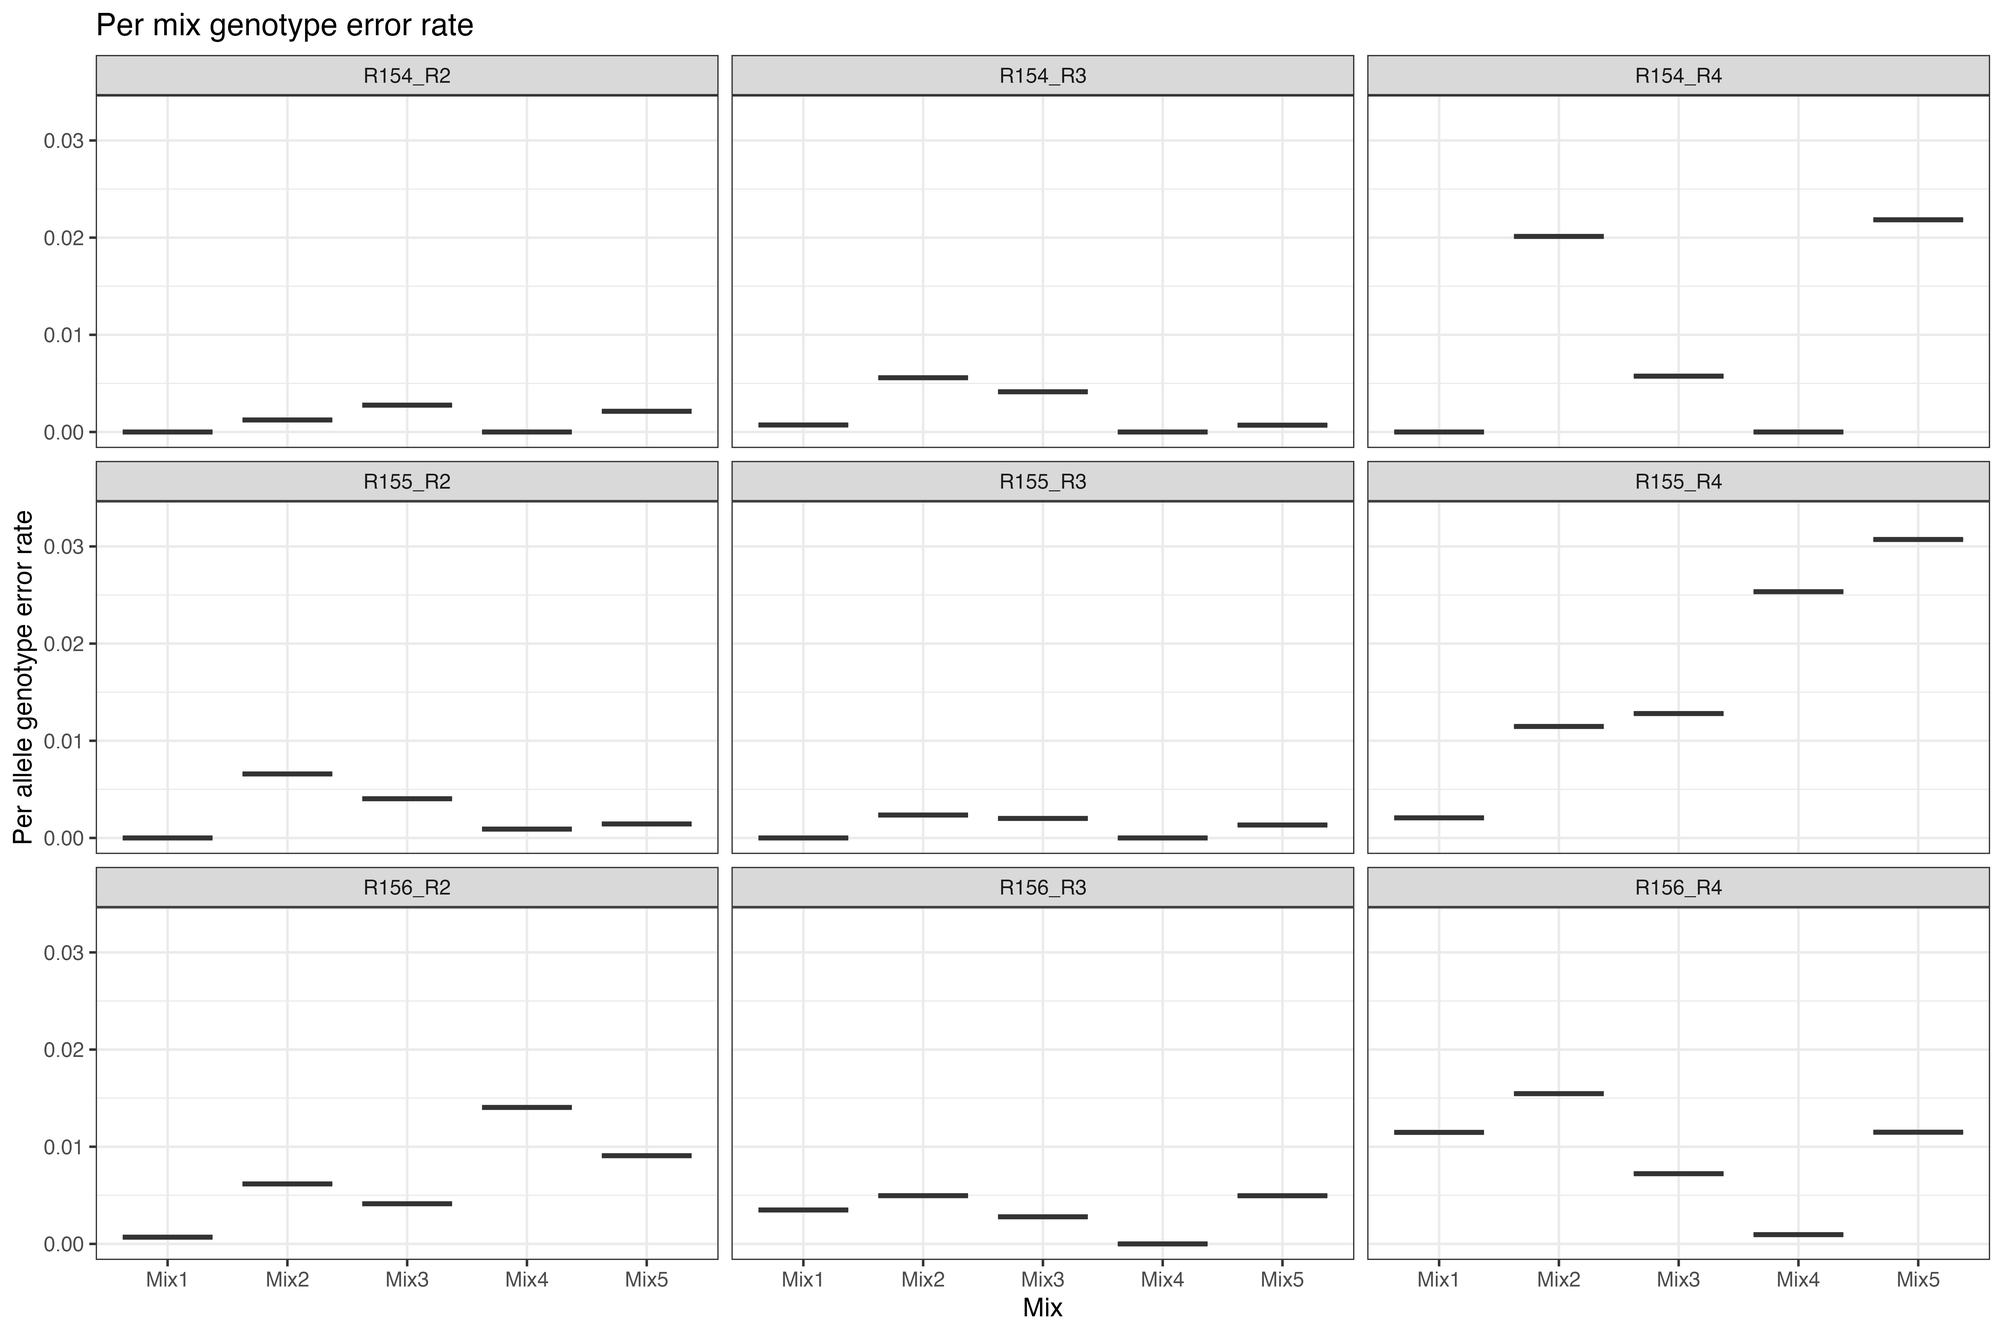
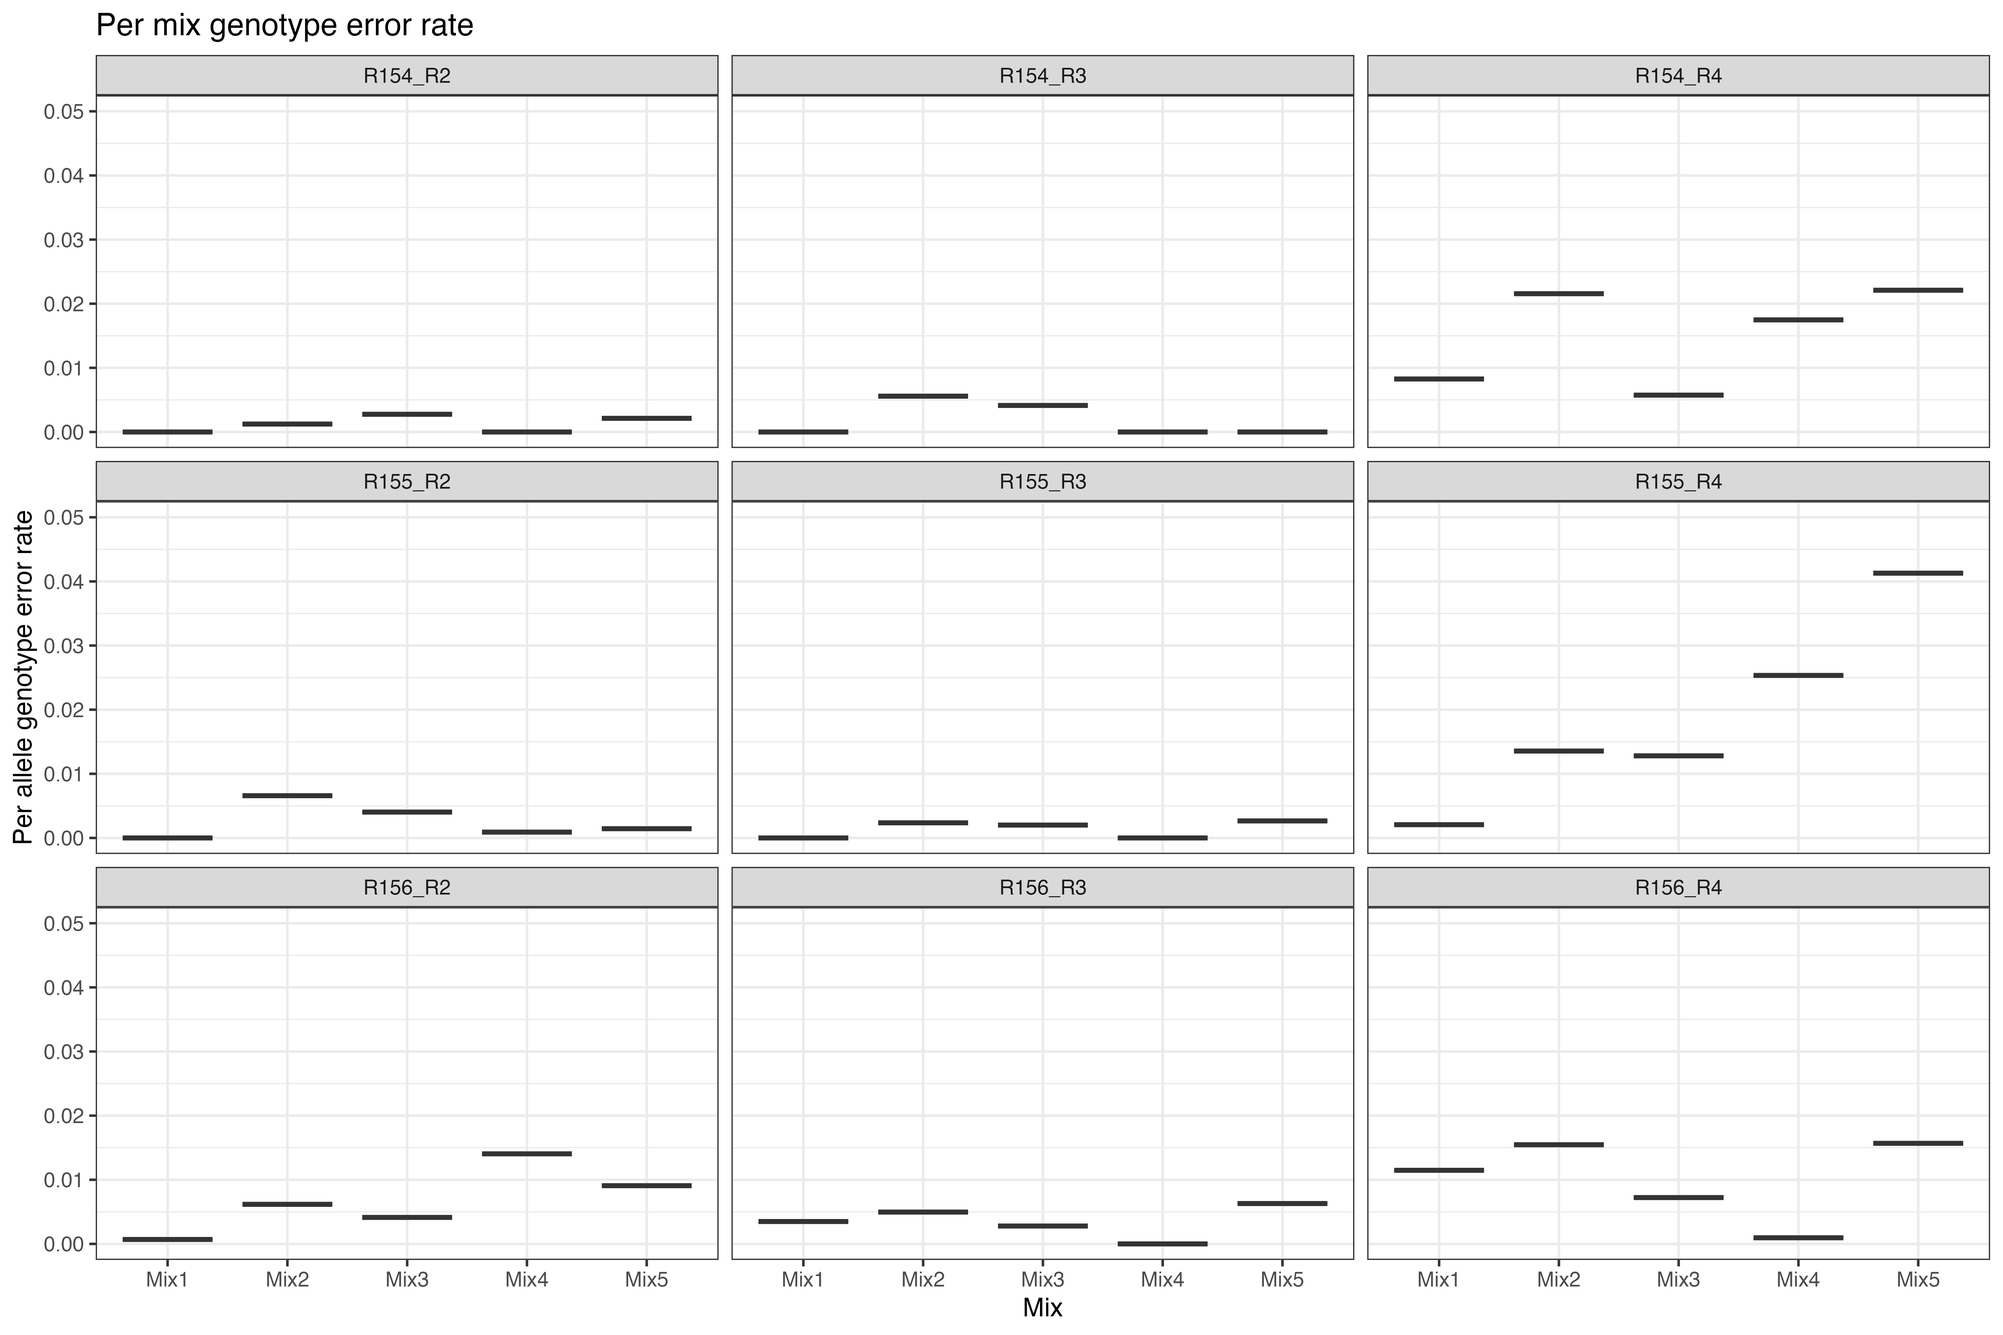
bayes model

diff --git a/SGP.html b/SGP.html
@@ -91,7 +91,7 @@ ul.task-list li input[type="checkbox"] {
 
 <section id="description" class="level1">
 <h1>Description</h1>
-<p>Scientific research is a massive endeavor, consuming vast quantities of single-use plastics. The sustainable genetics project aim to empirically test the re-usability of lab plastic wear, specifically the plastic racks used for PCRs and detection. The project was based around the protocol for Antarctic fur seal genotyping using microsatellites. In this protocol, extracted DNA is first amplified using PCR and since transfered to detection plates for sequencing. The plates used for detection contain only a small diluted concentration of DNA, while the PCR plates have been used in the PCR process and therefore contain a high concentration of DNA. Therefore, we assume that the potential risk of contamination from a previously used plate would be higher in the PCR step.</p>
+<p>Scientific research is a massive endeavor, consuming vast quantities of single-use plastics. The sustainable genetics project aim to empirically test the re-usability of lab plastic wear, specifically the plastic racks used for PCRs and detection. The project was based around the protocol for Antarctic fur seal genotyping using microsatellites. In this protocol, extracted DNA is first amplified using PCR and since transferred to detection plates for sequencing. The plates used for detection contain only a small diluted concentration of DNA, while the PCR plates have been used in the PCR process and therefore contain a high concentration of DNA. Therefore, we assume that the potential risk of contamination from a previously used plate would be higher in the PCR step.</p>
 </section>
 <section id="methods" class="level1">
 <h1>Methods</h1>
@@ -178,6 +178,12 @@ ul.task-list li input[type="checkbox"] {
 <section id="data" class="level3">
 <h3 class="anchored" data-anchor-id="data">Data</h3>
 <p>The data for this project are the raw sequencing reads from the ABI 3730xl capillary sequencer. Each files is identified with the following name structure: RackX_mixY_Z. Where X gives the rack number, Y the mix and Z the treatment (1 = standard procedure, 2 = internal control, 3 = Re-used detection plate and 4 = Re-used PCR plate).</p>
+<div class="cell">
+<div class="cell-output cell-output-stderr">
+<pre><code>Warning in rm(Data_df, Data_list, x, Data_files, i, Mix1, Mix1_locate,
+remove_row, : object 'Mix1' not found</code></pre>
+</div>
+</div>
 </section>
 <section id="missing-data" class="level2">
 <h2 class="anchored" data-anchor-id="missing-data">Missing data</h2>
@@ -203,15 +209,15 @@ ul.task-list li input[type="checkbox"] {
 <td style="text-align: left;">Mix1</td>
 <td style="text-align: right;">98</td>
 <td style="text-align: right;">56</td>
-<td style="text-align: right;">26</td>
-<td style="text-align: right;">72</td>
+<td style="text-align: right;">22</td>
+<td style="text-align: right;">1002</td>
 </tr>
 <tr class="even">
 <td style="text-align: left;">Mix2</td>
 <td style="text-align: right;">58</td>
 <td style="text-align: right;">26</td>
 <td style="text-align: right;">24</td>
-<td style="text-align: right;">48</td>
+<td style="text-align: right;">154</td>
 </tr>
 <tr class="odd">
 <td style="text-align: left;">Mix3</td>
@@ -225,21 +231,21 @@ ul.task-list li input[type="checkbox"] {
 <td style="text-align: right;">38</td>
 <td style="text-align: right;">20</td>
 <td style="text-align: right;">18</td>
-<td style="text-align: right;">56</td>
+<td style="text-align: right;">544</td>
 </tr>
 <tr class="odd">
 <td style="text-align: left;">Mix5</td>
 <td style="text-align: right;">48</td>
 <td style="text-align: right;">66</td>
 <td style="text-align: right;">44</td>
-<td style="text-align: right;">154</td>
+<td style="text-align: right;">170</td>
 </tr>
 <tr class="even">
 <td style="text-align: left;">Total</td>
 <td style="text-align: right;">278</td>
 <td style="text-align: right;">194</td>
-<td style="text-align: right;">132</td>
-<td style="text-align: right;">410</td>
+<td style="text-align: right;">128</td>
+<td style="text-align: right;">1950</td>
 </tr>
 </tbody>
 </table>
@@ -277,7 +283,7 @@ ul.task-list li input[type="checkbox"] {
 <td style="text-align: right;">14</td>
 <td style="text-align: right;">40</td>
 <td style="text-align: right;">12</td>
-<td style="text-align: right;">52</td>
+<td style="text-align: right;">158</td>
 </tr>
 <tr class="odd">
 <td style="text-align: left;">Mix3</td>
@@ -297,15 +303,15 @@ ul.task-list li input[type="checkbox"] {
 <td style="text-align: left;">Mix5</td>
 <td style="text-align: right;">10</td>
 <td style="text-align: right;">132</td>
-<td style="text-align: right;">16</td>
-<td style="text-align: right;">120</td>
+<td style="text-align: right;">12</td>
+<td style="text-align: right;">430</td>
 </tr>
 <tr class="even">
 <td style="text-align: left;">Total</td>
 <td style="text-align: right;">76</td>
 <td style="text-align: right;">251</td>
-<td style="text-align: right;">114</td>
-<td style="text-align: right;">446</td>
+<td style="text-align: right;">110</td>
+<td style="text-align: right;">862</td>
 </tr>
 </tbody>
 </table>
@@ -363,15 +369,15 @@ ul.task-list li input[type="checkbox"] {
 <td style="text-align: left;">Mix5</td>
 <td style="text-align: right;">52</td>
 <td style="text-align: right;">52</td>
-<td style="text-align: right;">70</td>
-<td style="text-align: right;">84</td>
+<td style="text-align: right;">48</td>
+<td style="text-align: right;">400</td>
 </tr>
 <tr class="even">
 <td style="text-align: left;">Total</td>
 <td style="text-align: right;">208</td>
 <td style="text-align: right;">200</td>
-<td style="text-align: right;">278</td>
-<td style="text-align: right;">386</td>
+<td style="text-align: right;">256</td>
+<td style="text-align: right;">702</td>
 </tr>
 </tbody>
 </table>
@@ -385,7 +391,7 @@ ul.task-list li input[type="checkbox"] {
 </div>
 </div>
 <p><a href="#tbl-failed">Table&nbsp;2</a> display the number of unscored alleles within each mix on each plate. For R154 and R156 this is based on 93 individuals, while for R155 it is based on all 95 individuals on the plate.</p>
-<p>Before starting the error rate evaluation, the no. of genotypes that could not be scored for each round and mix per rack is tabulated (See <a href="#tbl-failed">Table&nbsp;2</a>). From this, we know that a total of 2973 alleles could not be scored. In <a href="#fig-Heatmap">Figure&nbsp;2</a> and <a href="#fig-Heatmap2">Figure&nbsp;3</a>, the location of the missing data on the plate is visualized. More purple hues correspond to more missing loci for that particular samples, and we can conclude that certain samples seem to have failed almost completely. This could hint at poor DNA quality. The data is arranged in the plot to match the layout of the actual plate. Through visual inspection, there might be a slight tendency for the missing loci to be located more towards the edges of the plates compared to the center.</p>
+<p>Before starting the error rate evaluation, the no. of genotypes that could not be scored for each round and mix per rack is tabulated (See <a href="#tbl-failed">Table&nbsp;2</a>). From this, we know that a total of 5215 alleles could not be scored. In <a href="#fig-Heatmap">Figure&nbsp;2</a> and <a href="#fig-Heatmap2">Figure&nbsp;3</a>, the location of the missing data on the plate is visualized. More purple hues correspond to more missing loci for that particular samples, and we can conclude that certain samples seem to have failed almost completely. This could hint at poor DNA quality. The data is arranged in the plot to match the layout of the actual plate. Through visual inspection, there might be a slight tendency for the missing loci to be located more towards the edges of the plates compared to the center.</p>
 <div id="fig-Heatmap" class="quarto-figure quarto-figure-center anchored">
 <figure class="figure">
 <p><img src="Results/Figures/Heatmap.png" class="img-fluid figure-img"></p>
@@ -398,7 +404,7 @@ ul.task-list li input[type="checkbox"] {
 <figcaption class="figure-caption">Figure&nbsp;3: Heatmap of missing data after gapfilling</figcaption>
 </figure>
 </div>
-<p>Based on the heatmaps, it is obvious that even after gap filling, some individuals have a higher proportion of missing data than others. To further explore the distribution of missing data, the number of NAs for each row of the dataset was tabulated. Each row corresponds to one individual on one rack, which means that each individual is represented 4 times. Based on <a href="#fig-missingdata">Figure&nbsp;4</a> the majority of individuals have less than 10 errors, however 39 individuals are represented in the dataset with more than 10 missing alleles.</p>
+<p>Based on the heatmaps, it is obvious that even after gap filling, some individuals have a higher proportion of missing data than others. To further explore the distribution of missing data, the number of NAs for each row of the dataset was tabulated. Each row corresponds to one individual on one rack, which means that each individual is represented 4 times. Based on <a href="#fig-missingdata">Figure&nbsp;4</a> the majority of individuals have less than 10 errors, however 105 individuals are represented in the dataset with at least one occurrence of more than 10 missing alleles.</p>
 <div id="fig-missingdata" class="quarto-figure quarto-figure-center anchored">
 <figure class="figure">
 <p><img src="Results/Figures/Nasmissing.png" class="img-fluid figure-img"></p>
@@ -408,7 +414,7 @@ ul.task-list li input[type="checkbox"] {
 </section>
 <section id="error-rate-calculation" class="level2">
 <h2 class="anchored" data-anchor-id="error-rate-calculation">Error rate calculation</h2>
-<p>The error rate is calculated by comparing all scored alleles and genotypes from the standard procedure within one rack with the other treatments starting with the internal control. The internal control is included as a baseline for error rates to have a comparable metric to evaluate if the reused plates inflate the error rate. The error rate is calculated both as per-allele genotyping error rate and per locus genotyping error rate.</p>
+<p>The error rate is calculated by comparing all scored alleles and loci from the standard procedure within one rack with the other treatments starting with the internal control. The internal control is included as a baseline for error rates to have a comparable metric to evaluate if the reused plates inflate the error rate. The error rate is calculated both as per-allele genotyping error rate and per locus genotyping error rate.</p>
 <section id="per-allele-genotyping-error-rate" class="level4">
 <h4 class="anchored" data-anchor-id="per-allele-genotyping-error-rate">Per-allele genotyping error rate</h4>
 <div class="cell">
@@ -455,49 +461,49 @@ ul.task-list li input[type="checkbox"] {
 <td style="text-align: left;">R154_R1</td>
 <td style="text-align: left;">R154_R3</td>
 <td style="text-align: left;">Re-used detection plate</td>
-<td style="text-align: right;">17</td>
-<td style="text-align: right;">0.0024453</td>
-<td style="text-align: right;">0.0037399</td>
+<td style="text-align: right;">15</td>
+<td style="text-align: right;">0.0021564</td>
+<td style="text-align: right;">0.0031627</td>
 </tr>
 <tr class="odd">
 <td style="text-align: left;">R155_R1</td>
 <td style="text-align: left;">R155_R3</td>
 <td style="text-align: left;">Re-used detection plate</td>
-<td style="text-align: right;">9</td>
-<td style="text-align: right;">0.0012383</td>
-<td style="text-align: right;">0.0022014</td>
+<td style="text-align: right;">11</td>
+<td style="text-align: right;">0.0015127</td>
+<td style="text-align: right;">0.0027503</td>
 </tr>
 <tr class="even">
 <td style="text-align: left;">R156_R1</td>
 <td style="text-align: left;">R156_R3</td>
 <td style="text-align: left;">Re-used detection plate</td>
-<td style="text-align: right;">24</td>
-<td style="text-align: right;">0.0034522</td>
-<td style="text-align: right;">0.0063291</td>
+<td style="text-align: right;">26</td>
+<td style="text-align: right;">0.0037303</td>
+<td style="text-align: right;">0.0068867</td>
 </tr>
 <tr class="odd">
 <td style="text-align: left;">R154_R1</td>
 <td style="text-align: left;">R154_R4</td>
 <td style="text-align: left;">Re-used PCR plate</td>
-<td style="text-align: right;">69</td>
-<td style="text-align: right;">0.0102192</td>
-<td style="text-align: right;">0.0201422</td>
+<td style="text-align: right;">83</td>
+<td style="text-align: right;">0.0158276</td>
+<td style="text-align: right;">0.0312738</td>
 </tr>
 <tr class="even">
 <td style="text-align: left;">R155_R1</td>
 <td style="text-align: left;">R155_R4</td>
 <td style="text-align: left;">Re-used PCR plate</td>
-<td style="text-align: right;">109</td>
-<td style="text-align: right;">0.0157106</td>
-<td style="text-align: right;">0.0308446</td>
+<td style="text-align: right;">113</td>
+<td style="text-align: right;">0.0173260</td>
+<td style="text-align: right;">0.0337320</td>
 </tr>
 <tr class="odd">
 <td style="text-align: left;">R156_R1</td>
 <td style="text-align: left;">R156_R4</td>
 <td style="text-align: left;">Re-used PCR plate</td>
-<td style="text-align: right;">67</td>
-<td style="text-align: right;">0.0098966</td>
-<td style="text-align: right;">0.0183161</td>
+<td style="text-align: right;">68</td>
+<td style="text-align: right;">0.0105231</td>
+<td style="text-align: right;">0.0194986</td>
 </tr>
 </tbody>
 </table>
@@ -534,37 +540,37 @@ ul.task-list li input[type="checkbox"] {
 <tr class="odd">
 <td style="text-align: left;">R154_R3</td>
 <td style="text-align: left;">R156_R1</td>
-<td style="text-align: right;">5</td>
+<td style="text-align: right;">4</td>
 <td style="text-align: left;">Re-used detection plate</td>
 </tr>
 <tr class="even">
 <td style="text-align: left;">R155_R3</td>
 <td style="text-align: left;">R154_R1</td>
-<td style="text-align: right;">0</td>
+<td style="text-align: right;">1</td>
 <td style="text-align: left;">Re-used detection plate</td>
 </tr>
 <tr class="odd">
 <td style="text-align: left;">R156_R3</td>
 <td style="text-align: left;">R155_R1</td>
-<td style="text-align: right;">7</td>
+<td style="text-align: right;">8</td>
 <td style="text-align: left;">Re-used detection plate</td>
 </tr>
 <tr class="even">
 <td style="text-align: left;">R154_R4</td>
 <td style="text-align: left;">R156_R1</td>
-<td style="text-align: right;">39</td>
+<td style="text-align: right;">50</td>
 <td style="text-align: left;">Re-used PCR plate</td>
 </tr>
 <tr class="odd">
 <td style="text-align: left;">R155_R4</td>
 <td style="text-align: left;">R154_R1</td>
-<td style="text-align: right;">89</td>
+<td style="text-align: right;">95</td>
 <td style="text-align: left;">Re-used PCR plate</td>
 </tr>
 <tr class="even">
 <td style="text-align: left;">R156_R4</td>
 <td style="text-align: left;">R155_R1</td>
-<td style="text-align: right;">49</td>
+<td style="text-align: right;">53</td>
 <td style="text-align: left;">Re-used PCR plate</td>
 </tr>
 </tbody>
@@ -581,8 +587,8 @@ ul.task-list li input[type="checkbox"] {
 <div class="cell">
 <div class="cell-output cell-output-stdout">
 <pre><code>            Df Sum Sq Mean Sq F value  Pr(&gt;F)   
-Treatment    2   7538    3769    11.8 0.00832 **
-Residuals    6   1916     319                   
+Treatment    2   9059    4529   14.68 0.00489 **
+Residuals    6   1851     309                   
 ---
 Signif. codes:  0 '***' 0.001 '**' 0.01 '*' 0.05 '.' 0.1 ' ' 1</code></pre>
 </div>
@@ -593,10 +599,14 @@ Signif. codes:  0 '***' 0.001 '**' 0.01 '*' 0.05 '.' 0.1 ' ' 1</code></pre>
 Fit: aov(formula = `No. of mismatches` ~ Treatment, data = Mismatches)
 
 $Treatment
-                                          diff       lwr       upr     p adj
-Re-used detection plate-Internal control    -8 -52.76831  36.76831 0.8511201
-Re-used PCR plate-Internal control          57  12.23169 101.76831 0.0185830
-Re-used PCR plate-Re-used detection plate   65  20.23169 109.76831 0.0102280</code></pre>
+                                               diff       lwr       upr
+Re-used detection plate-Internal control  -7.333333 -51.33967  36.67301
+Re-used PCR plate-Internal control        63.333333  19.32699 107.33967
+Re-used PCR plate-Re-used detection plate 70.666667  26.66033 114.67301
+                                              p adj
+Re-used detection plate-Internal control  0.8687638
+Re-used PCR plate-Internal control        0.0106583
+Re-used PCR plate-Re-used detection plate 0.0063148</code></pre>
 </div>
 </div>
 <p>The total no. of mismatches between the standard procedure and the additional treatments could be significantly determined by treatment. Further exploration using a Tukey pairwise comparison revealed that this treatment effect was driven by a significant difference in no. of mismatches in the ‘re-used detection plate’ treatment when compared to both the internal control and the re-used PCR treatment. When comparing those two treatments to each other, no significant difference could be found.</p>
@@ -605,7 +615,7 @@ Re-used PCR plate-Re-used detection plate   65  20.23169 109.76831 0.0102280</co
 </section>
 <section id="results" class="level1">
 <h1>Results</h1>
-<p>On R154 the two samples from 2007-2008 were excluded from analysis, due to lack of DNA for the last treatment. Likewise for two of the positive controls on R156. In total, 369 alleles were analysed, out of which 2973 were unscorable. We found a total of 369 mismatches on allelic level between all treatments across all racks. A subset of these (189) were potential contamination cases.</p>
+<p>On R154 the two samples from 2007-2008 were excluded from analysis, due to lack of DNA for the last treatment. Likewise for two of the positive controls on R156. In total, 390 alleles were analysed, out of which 5215 were unscorable. We found a total of 390 mismatches on allelic level between all treatments across all racks. A subset of these (211) were potential contamination cases.</p>
 <p><a href="#fig-Errorrates">Figure&nbsp;6</a> shows 4 graphic panels. A visualize the total no. of mismatches observed when comparing the standard procedure treatment of each rack with the other treatments. B the total number of potential contamination cases, while C and D show the per allele and per locus genotype error rate, respectively.</p>
 <div id="fig-Errorrates" class="quarto-figure quarto-figure-center anchored">
 <figure class="figure">
